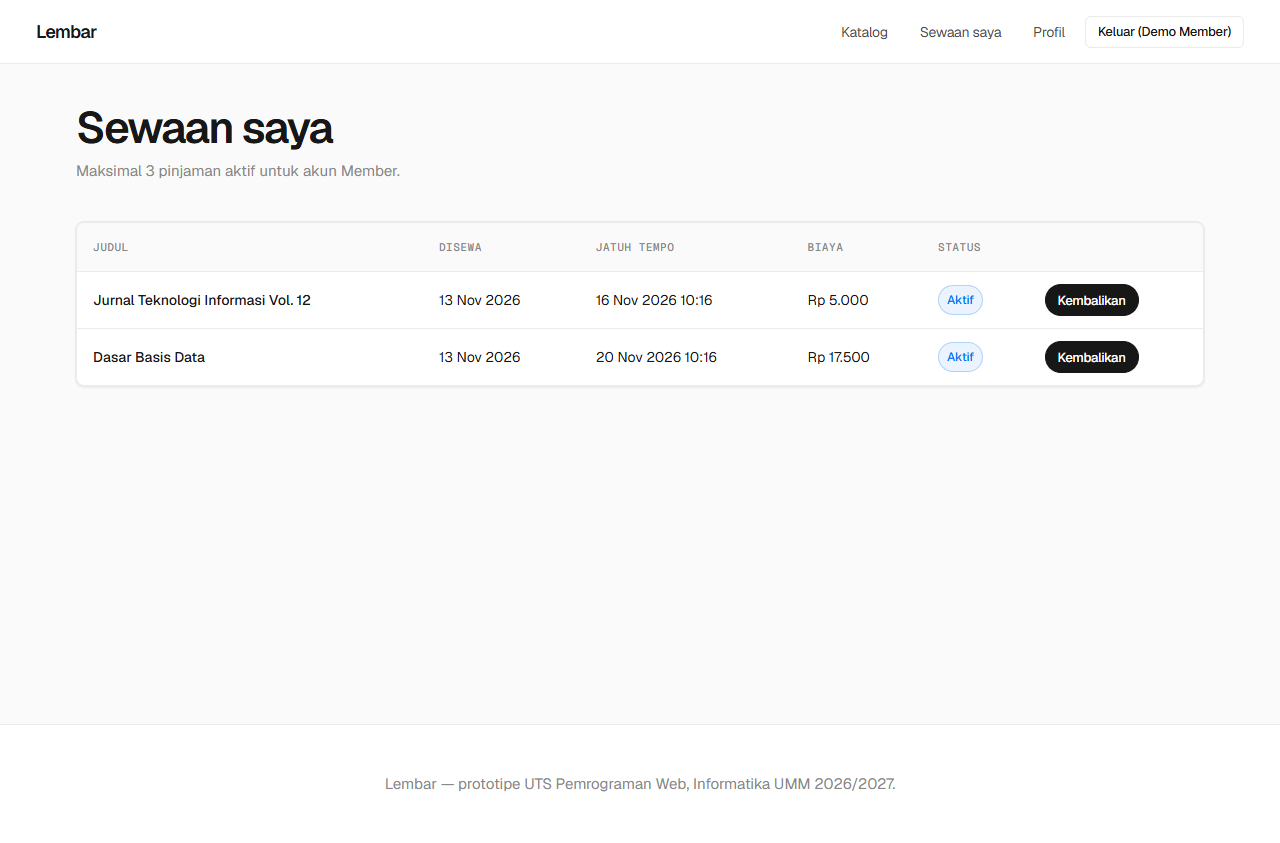
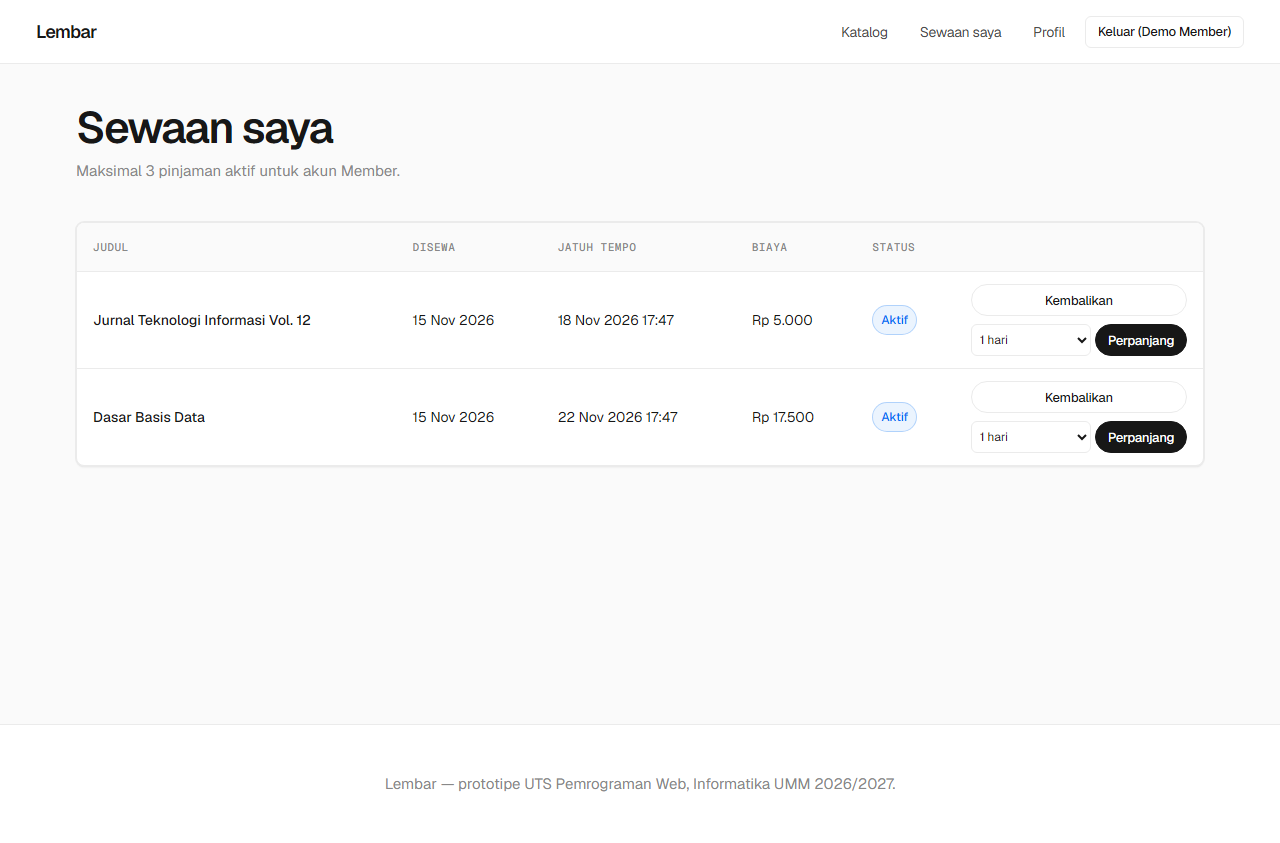
docs: tambah screenshot fitur perpanjang sewa

diff --git a/docs/FLOW.md b/docs/FLOW.md
@@ -233,5 +233,6 @@ Validasi di browser hanya untuk kenyamanan. Pemeriksaan yang menentukan tetap di
    - Validasi kepemilikan dan status transaksi.
    - Hitung harga baru menggunakan `PriceCalculator` dengan basis harga awal.
    - `Transaction::extend()` memperbarui `dueAt` dan `totalDays`.
-4. Flash sukses (plus info biaya tambahan bila ada) → redirect ke `rentals`.
+4. Flash sukses (plus info biaya tambahan bila ada) → redirect ke `rentals`.![Halaman Sewaan saya dengan tombol Perpanjang](screenshots/07-sewa-saya.png)
+![Pesan sukses setelah perpanjangan](screenshots/13-perpanjang-berhasil.png)
 
